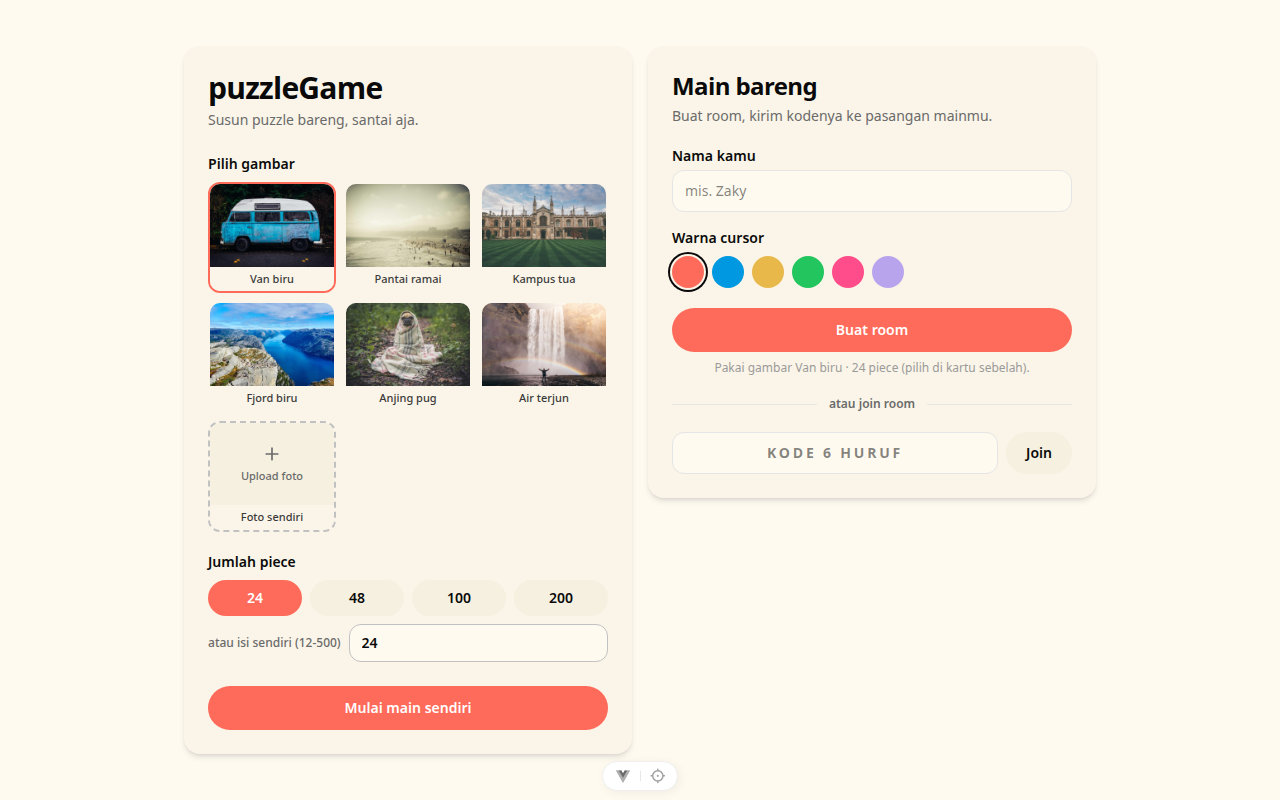
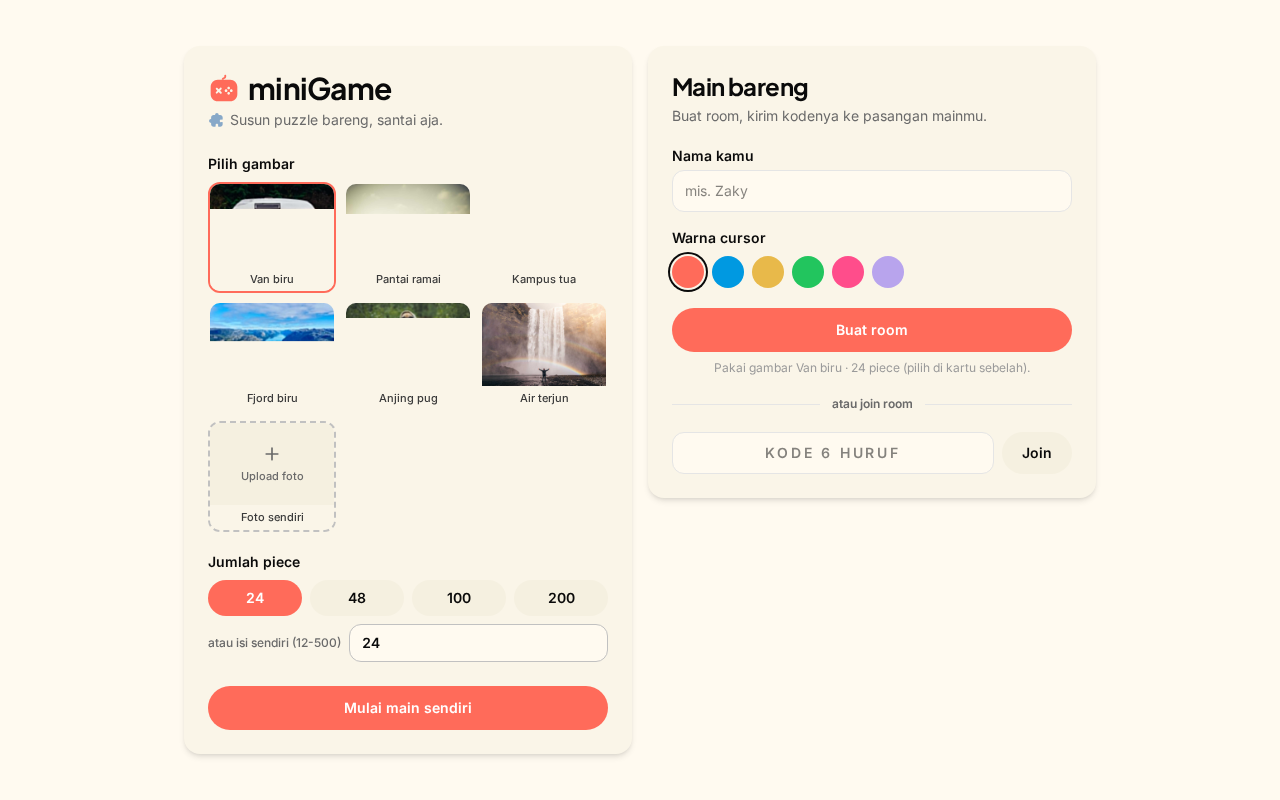
docs: rename to miniGame

diff --git a/ROADMAP.md b/ROADMAP.md
@@ -1,6 +1,7 @@
-# Puzzle Game - ROADMAP (contekan milestone)
+# miniGame - ROADMAP (contekan milestone)
 
-> Game jigsaw puzzle multiplayer di web, buat main bareng (Zaky + Dindha).
+> Platform mini-game multiplayer di web, buat main bareng (Zaky + Dindha).
+> Game pertama: jigsaw puzzle.
 > Referensi: reel Instagram @oftwominds._ (jigsawplanet.com + Google Meet di pojok,
 > puzzle sunset pantai, lalu collage kartun, lalu toko "CANDY SHOPPE").
 > File ini sumber kebenaran buat lanjutan sesi: baca dulu sebelum kerja,
@@ -12,7 +13,7 @@
 | --- | --- | --- | --- |
 | M0 Scaffold dan tooling | ✅ selesai | 2026-11-18 | Scaffold + build + wrangler dev terverifikasi; 8 commit di-push |
 | M1 Mesin jigsaw (single player) | ✅ selesai | 2026-11-18 | Mesin jigsaw + board + lobby terverifikasi (screenshot QA); 6 commit di-push |
-| M2 Room dan realtime multiplayer | ✅ selesai | 2026-11-18 | PartyServer + DO SQLite; tes integrasi 22/22 lolos (lokal + workers.dev); live di puzzle-game-avl.pages.dev; 5 commit di-push |
+| M2 Room dan realtime multiplayer | ✅ selesai | 2026-11-18 | PartyServer + DO SQLite; tes integrasi 22/22 lolos (lokal + workers.dev); live di minigames-bxb.pages.dev; 5 commit di-push |
 | M3 Chat dan polish UX | ✅ selesai | 2026-11-18 | Chat + pesan sistem, timer via jam server, Rapikan, suara snap + mute, rail responsif; tes integrasi 14/14 (lokal + live); audit di docs/ui-audit-m3.md; 11 commit di-push |
 | M4 Galeri dan upload gambar | ✅ selesai | 2026-11-18 | 6 preset, upload + kompres client, gambar di KV (bukan R2), ganti gambar host, piece custom 12-500 + pembulatan grid; tes WS 10/10 + cutter 14/14 (lokal + live); 8 commit di-push |
 | M5 Piece grouping | ✅ selesai | 2026-11-18 | Grouping drop-only + snap grup, server authoritative; tes unit 15/15, WS 15/15 (lokal + live), QA browser 3/3 + screenshot; 6 commit di-push |
@@ -22,9 +23,9 @@ Legenda: ⏳ belum mulai, 🔨 jalan, ✅ selesai.
 
 ## Keputusan yang sudah dikunci (2026-11-18)
 
-- Lokasi: `/home/ice/Projects/puzzle-game` di laptop (pakai strip, bukan spasi,
+- Lokasi: `/home/ice/Projects/mini-game` di laptop (pakai strip, bukan spasi,
   biar gampang di command line; Zaky bilang "~/Projects/puzzle game").
-- Repo GitHub: `github.com/zakyShadra/puzzleGame` (public, dibuat 2026-11-18).
+- Repo GitHub: `github.com/zakyShadra/miniGame` (public, dibuat 2026-11-18).
 - Frontend: Vue 3 (`<script setup>`) + Vite + TypeScript + Tailwind CSS + Pinia.
 - Board: Canvas 2D (bukan DOM per piece, bukan Three.js/Phaser) biar enteng
   di laptop kentang (Zaky dan Dindha sama-sama low-spec).
@@ -50,7 +51,7 @@ Legenda: ⏳ belum mulai, 🔨 jalan, ✅ selesai.
 ## Struktur folder target
 
 ```text
-puzzle-game/
+mini-game/
   ROADMAP.md          # file ini, contekan milestone
   README.md           # cara jalanin + gambaran proyek
   DESIGN.md           # token desain dari design-md-studio (dibuat di M0)
@@ -155,8 +156,8 @@ lolos lawan wrangler dev lokal DAN worker live (create/join, cursor,
 drag lock + grab-denied, move tanpa echo, drop + snap server, lepas
 lock saat disconnect, persistensi SQLite, error room tidak ada);
 screenshot QA lobby dua kartu rapi; deploy live
-(https://puzzle-game-avl.pages.dev/ +
-https://puzzle-game-party.zakyshadra.workers.dev).
+(https://minigames-bxb.pages.dev/ +
+https://minigames-party.zakyshadra.workers.dev).
 Catatan: board logis tetap 1280x800 (posisi piece konsisten di semua
 layar); logika game pindah ke shared/game/ supaya server dan client
 pakai cut + scatter + snap yang identik; layout watcher BoardCanvas
@@ -205,7 +206,7 @@ terpasang + lokal single-player), suara snap WebAudio + mute
 HP), audit red-flag UI di docs/ui-audit-m3.md. Tes integrasi 14/14
 lolos lawan wrangler dev lokal DAN worker live; screenshot QA desktop
 1280px + HP 390px rapi. Deploy gabungan dengan M4 di
-https://puzzle-game-avl.pages.dev/.
+https://minigames-bxb.pages.dev/.
 Catatan: indikator AFK sempat dibuat lalu dibatalkan Zaky (revert
 12236bb); pesan sistem per-piece sengaja tidak dibuat (terlalu
 berisik di 200 piece); riwayat chat tidak disimpan di server.
@@ -296,7 +297,7 @@ grup, groupId tersimpan di SQLite); QA browser Playwright 3/3
 + screenshot m5-group-2x2.png dan m5-group-dragged.png.
 Catatan: grouping HANYA saat drop (tanpa magnet/preview); Rapikan
 membubarkan grup; trySnap dihapus (diganti trySnapGroup); hook QA
-dev-only ?groupdemo=1 di LobbyPanel + window.__puzzleGame.
+dev-only ?groupdemo=1 di LobbyPanel + window.__miniGame.
 
 Tujuan: piece yang sudah benar-benar bersebelahan menempel jadi satu
 kelompok yang bisa digeser bareng, tanpa membuat game jadi terlalu mudah
@@ -428,7 +429,7 @@ Selesai kalau:
 ## Perintah contekan
 
 ```bash
-cd ~/Projects/puzzle-game
+cd ~/Projects/mini-game
 npm run dev            # frontend di localhost:5173
 npm run build          # build frontend
 cd party && npx wrangler dev    # PartyServer lokal
@@ -459,4 +460,11 @@ cd party && npx wrangler deploy # PartyServer production
   file generated dipisah), pesan conventional commits (feat:, fix:,
   docs:, debug:, dll) dengan scope milestone, timestamp dimanipulasi
   biar manusiawi (jeda sesuai ukuran tugas, tidak bulat). Repo GitHub
-  `zakyShadra/puzzleGame` (public).
+  `zakyShadra/miniGame` (public).
+
+- 2026-11-18: Rename puzzleGame jadi miniGame (Zaky mau scale up,
+  tidak cuma puzzle). Repo puzzleGame-dev -> miniGame-dev,
+  puzzleGame -> miniGame; folder ~/Projects/puzzle-game ->
+  ~/Projects/mini-game; Pages puzzle-game-avl.pages.dev -> minigames-bxb.pages.dev;
+  worker puzzle-game-party -> minigames-party. Puzzle tetap
+  game pertama; identifier logika game tidak di-rename.

diff --git a/docs/cv-linkedin.md b/docs/cv-linkedin.md
@@ -1,22 +1,24 @@
-# CV bullets + LinkedIn draft (puzzleGame)
+# CV bullets + LinkedIn draft (miniGame)
+
+Proyek ini di-rename dari puzzleGame ke miniGame pada 2026-11-18.
 
 Draf faktual, tanpa angka yang tidak terverifikasi. Link demo sudah
-live; link repo di draf LinkedIn memakai repo kerja puzzleGame-dev,
-ganti ke https://github.com/zakyShadra/puzzleGame setelah repo display
+live; link repo di draf LinkedIn memakai repo kerja miniGame-dev,
+ganti ke https://github.com/zakyShadra/miniGame setelah repo display
 terisi history bertahap.
 
 ## CV bullets (Bahasa Inggris)
 
 ### Varian 1 (satu bullet lengkap)
 
-Built puzzleGame, a real-time multiplayer jigsaw puzzle web app
+Built miniGame, a real-time multiplayer jigsaw puzzle web app
 (Vue 3, TypeScript, Cloudflare Workers). Two players solve the same
 puzzle over WebSocket with live cursors, drag locks, in-room chat,
 and server-authoritative state persisted in Durable Objects (SQLite).
 
 ### Varian 2 (dua bullet)
 
-- Built and deployed puzzleGame, a real-time multiplayer jigsaw
+- Built and deployed miniGame, a real-time multiplayer jigsaw
   puzzle web app: Vue 3 + Canvas 2D frontend, PartyServer on
   Cloudflare Workers, Durable Objects for server-authoritative room
   state, WebSocket sync with drag locks and live cursors.
@@ -26,12 +28,12 @@ and server-authoritative state persisted in Durable Objects (SQLite).
 
 ### Varian 3 (satu baris, hemat tempat)
 
-puzzleGame: real-time multiplayer jigsaw puzzle web app (Vue 3,
+miniGame: real-time multiplayer jigsaw puzzle web app (Vue 3,
 PartyServer, Cloudflare Workers + Durable Objects, WebSocket).
 
 ## LinkedIn draft
 
-Small side project, shipped: puzzleGame, a multiplayer jigsaw puzzle
+Small side project, shipped: miniGame, a multiplayer jigsaw puzzle
 you play in the browser with someone else, in real time.
 
 One board, two cursors. You pick a photo (or upload your own), pick
@@ -44,7 +46,7 @@ Stack: Vue 3 + TypeScript + Canvas 2D on the front, PartyServer on
 Cloudflare Workers with Durable Objects for the room state, everything
 on free tiers.
 
-Try it: https://puzzle-game-avl.pages.dev/
-Code: https://github.com/zakyShadra/puzzleGame-dev
+Try it: https://minigames-bxb.pages.dev/
+Code: https://github.com/zakyShadra/miniGame-dev
 
 Built it to play with my girlfriend. She picks the photos.

diff --git a/DESIGN.md b/DESIGN.md
@@ -1,7 +1,7 @@
 ---
 version: alpha
-name: "puzzleGame"
-description: "puzzleGame: cozy multiplayer jigsaw di web. Kanvas krem hangat (#fffaf0) ala clay, aksen coral hangat, papan felt biru dusty (#87a8c8) seperti di reel referensi; sudut lembut, tombol pill, gerak halus. Plus Jakarta Sans + Inter."
+name: "miniGame"
+description: "miniGame: cozy multiplayer mini-games di web, game pertama jigsaw puzzle. Kanvas krem hangat (#fffaf0) ala clay, aksen coral hangat, papan felt biru dusty (#87a8c8) seperti di reel referensi; sudut lembut, tombol pill, gerak halus. Plus Jakarta Sans + Inter."
 sources:
   colors: "clay + mintlify + formo-club"
   shape: "airbnb + cal"
@@ -121,7 +121,7 @@ shadow:
   piece-drag: "0 10px 20px rgba(10, 10, 10, 0.18)"
 ---
 
-# puzzleGame: Design System
+# miniGame: Design System
 
 ## Overview
 

diff --git a/README.md b/README.md
@@ -1,10 +1,11 @@
-# puzzleGame
+# miniGame
 
-Real-time multiplayer jigsaw puzzle on the web. One board, two people,
-same puzzle. Built to play together with my girlfriend, inspired by a
+A tiny multiplayer mini-games platform on the web. First game:
+real-time multiplayer jigsaw puzzle. One board, two people, same
+puzzle. Built to play together with my girlfriend, inspired by a
 reel of two friends solving a jigsaw over a video call.
 
-**Play it:** https://puzzle-game-avl.pages.dev/
+**Play it:** https://minigames-bxb.pages.dev/
 
 ![Lobby](docs/screenshots/lobby.png)
 ![Board](docs/screenshots/board.png)
